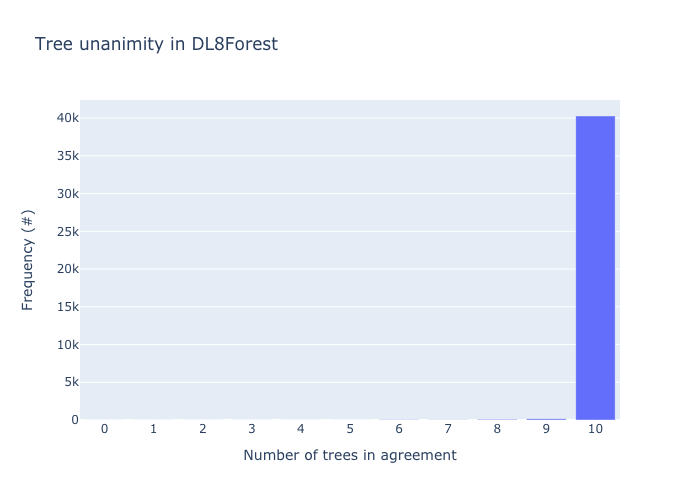
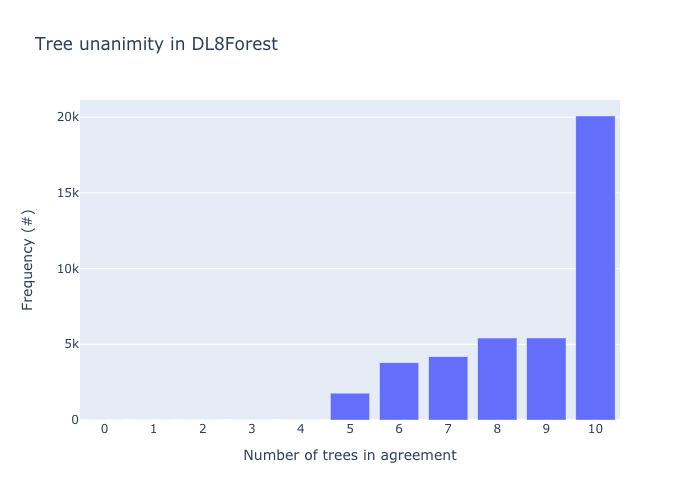
Reorganise code

diff --git a/source/utils/forest_core.py b/source/utils/forest_core.py
@@ -1,0 +1,114 @@
+from sklearn.base import BaseEstimator, ClassifierMixin
+from sklearn.utils.validation import check_X_y
+from sklearn.utils import resample
+import numpy as np
+from dl85 import DL85Classifier
+
+
+class Forest(BaseEstimator, ClassifierMixin):
+    def __init__(self,
+                 n_estimators=10,
+                 tree_class=DL85Classifier,
+                 method="random",
+                 attributes="all",
+                 n_samples=25,
+                 sampling_type="%",
+                 **kwargs):
+        self.estimators = []
+        self.n_estimators = n_estimators
+        self.tree_class = tree_class
+        self.n_samples = n_samples
+        self.sampling_type = sampling_type
+        self.kwargs = kwargs
+        self.is_fitted = False
+        self.unanimity = None
+        self.method = method
+        self.attributes = attributes
+
+    def fit(self, X, y):
+        check_X_y(X, y)
+        self.estimators = []
+
+        sample_size = round(self.n_samples / 100 * len(X)) if self.sampling_type == "%" else self.n_samples
+        column_size = round(75 / 100 * len(X[0]))
+
+        for i in range(self.n_estimators):
+            tree = self.tree_class(**self.kwargs)
+            self.estimators.append(tree)
+
+            if self.method == "random":
+                sample, classes = resample(X, y, n_samples=sample_size)
+            else:
+                sample, classes = X, y
+
+            if self.attributes == "random":
+                # TODO: fix
+                sample = resample(*sample, n_samples=column_size, replace=False)
+
+            tree.fit(sample, classes)
+
+            if self.attributes == "progressive":
+                root = tree.tree_
+
+                attr = root['feat']
+                for i in range(len(X)):
+                    X[i][attr] = 1
+
+            if self.attributes == "random_progressive":
+                root = tree.tree_
+                pred = None
+                while 'class' not in root:
+                    c = np.random.randint(0, 2)
+                    pred = root
+                    if c == 0:
+                        break
+                    elif c == 1:
+                        root = root['left']
+                    else:
+                        root = root['right']
+
+                attr = pred['feat']
+                for i in range(len(X)):
+                    X[i][attr] = 1
+
+        self.is_fitted = True
+        return self
+
+    def predict(self, X):
+        lst = np.array([t.predict(X) for t in self.estimators])
+        pred = [np.argmax(np.bincount(lst[:, i])) for i in range(len(lst[0]))]
+        self.unanimity = [np.count_nonzero(lst[:, i] == pred[i]) for i in range(len(lst[0]))]
+        return pred
+
+    def check_is_fitted(self):
+        return self.is_fitted
+
+    def get_depth_map(self):
+        if self.tree_class == DL85Classifier:
+            depth_map = {}
+            for t in self.estimators:
+                tree = t.tree_
+
+                def build_depth_map(curr_tree, n=1):
+                    if n not in depth_map:
+                        depth_map[n] = {}
+                    d = depth_map[n]
+                    if 'class' not in curr_tree:
+                        f = curr_tree['feat']
+                        if f not in d:
+                            d[f] = 1
+                        else:
+                            d[f] += 1
+                        build_depth_map(curr_tree['left'], n + 1)
+                        build_depth_map(curr_tree['right'], n + 1)
+
+                build_depth_map(tree)
+            return depth_map
+        else:
+            return None
+
+    def get_unanimity(self):
+        return self.unanimity
+
+    def get_n_estimators(self):
+        return self.n_estimators

diff --git a/source/learning/dl8_forest.py b/source/learning/dl8_forest.py
@@ -1,10 +1,5 @@
-from sklearn.base import BaseEstimator, ClassifierMixin
-from sklearn.utils.validation import check_X_y
-from sklearn.utils import resample
-import numpy as np
-from dl85 import DL85Classifier
-
 from source.utils import file_manager
+from source.utils.forest_core import Forest
 from source.learning import learning
 
 NAME = "DL8Forest"
@@ -35,72 +30,3 @@ class DL8Forest(learning.Learning):
 
     def read_from_file(self):
         super().read_from_file()
-
-
-class Forest(BaseEstimator, ClassifierMixin):
-    def __init__(self,
-                 n_estimators=10,
-                 tree_class=DL85Classifier,
-                 n_samples=25,
-                 sampling_type="%",
-                 **kwargs):
-        self.estimators = []
-        self.n_estimators = n_estimators
-        self.tree_class = tree_class
-        self.n_samples = n_samples
-        self.sampling_type = sampling_type
-        self.kwargs = kwargs
-        self.is_fitted = False
-        self.unanimity = None
-
-    def fit(self, X, y):
-        check_X_y(X, y)
-        self.estimators = []
-        sample_size = round(self.n_samples/100 * len(X)) if self.sampling_type == "%" else self.n_samples
-        for i in range(self.n_estimators):
-            tree = self.tree_class(**self.kwargs)
-            self.estimators.append(tree)
-            sample, classes = resample(X, y, n_samples=sample_size)
-            tree.fit(sample, classes)
-        self.is_fitted = True
-        return self
-
-    def predict(self, X):
-        lst = np.array([t.predict(X) for t in self.estimators])
-        pred = [np.argmax(np.bincount(lst[:, i])) for i in range(len(lst[0]))]
-        self.unanimity = [np.count_nonzero(lst[:, i] == pred[i]) for i in range(len(lst[0]))]
-        return pred
-
-    def check_is_fitted(self):
-        return self.is_fitted
-
-    def get_depth_map(self):
-        if self.tree_class == DL85Classifier:
-            depth_map = {}
-            for t in self.estimators:
-                tree = t.tree_
-
-                def build_depth_map(tree, n=1):
-                    if n not in depth_map:
-                        depth_map[n] = {}
-                    d = depth_map[n]
-                    if 'class' not in tree:
-                        f = tree['feat']
-                        if f not in d:
-                            d[f] = 1
-                        else:
-                            d[f] += 1
-                        build_depth_map(tree['left'], n + 1)
-                        build_depth_map(tree['right'], n + 1)
-
-                build_depth_map(tree)
-            return depth_map
-        else:
-            return None
-
-    def get_unanimity(self):
-        return self.unanimity
-
-    def get_n_estimators(self):
-        return self.n_estimators
-

diff --git a/source/utils/learning_manager.py b/source/utils/learning_manager.py
@@ -16,7 +16,7 @@ kwargs = {
     "R-forest": {'n_estimators': 100},
     "CP-tree": {'max_depth': 4},
     "DL8": {'max_depth': 4},
-    "DL8-forest": {'n_estimators': 10, 'max_depth': 3, 'print_output': False},
+    "DL8-forest": {'n_estimators': 10, 'max_depth': 3, 'attributes': "random_progressive"},
     "G-boosting": {'n_estimators': 100}
 }
 
